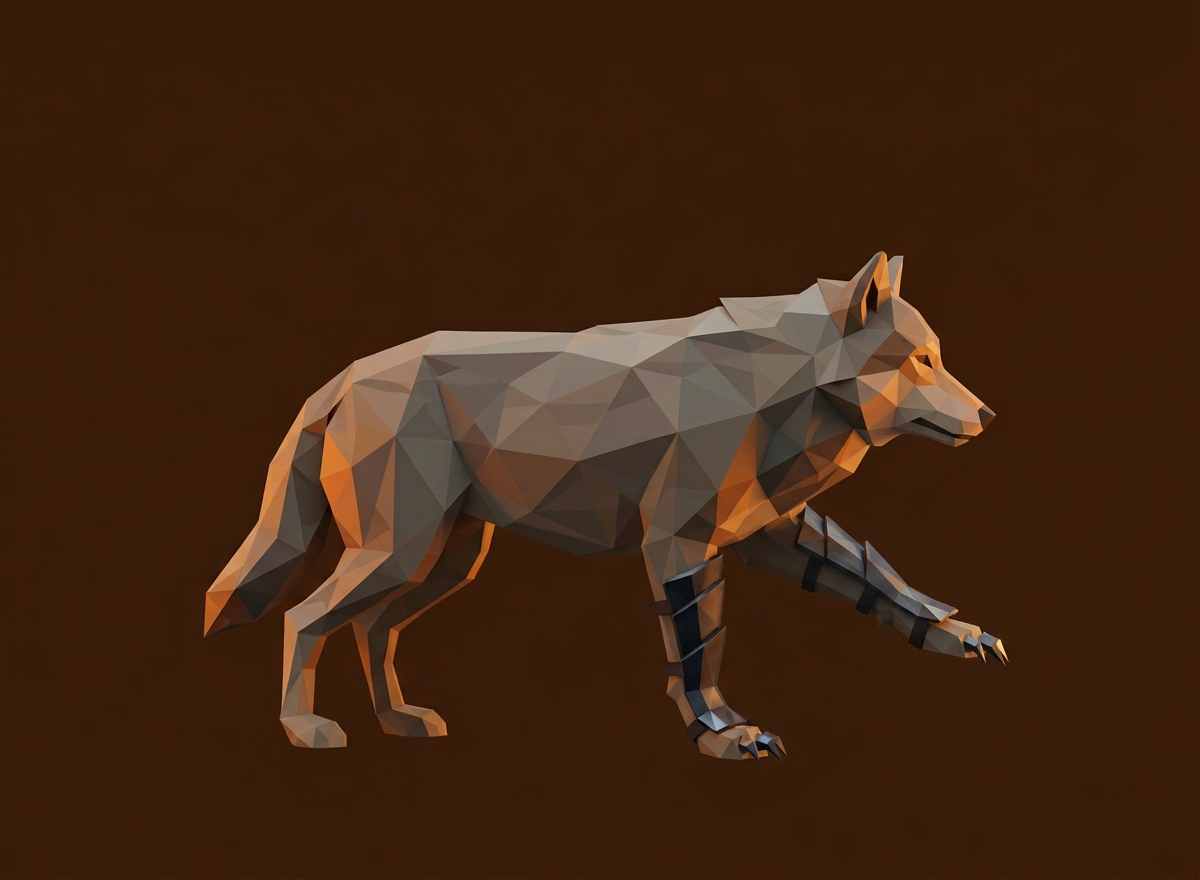
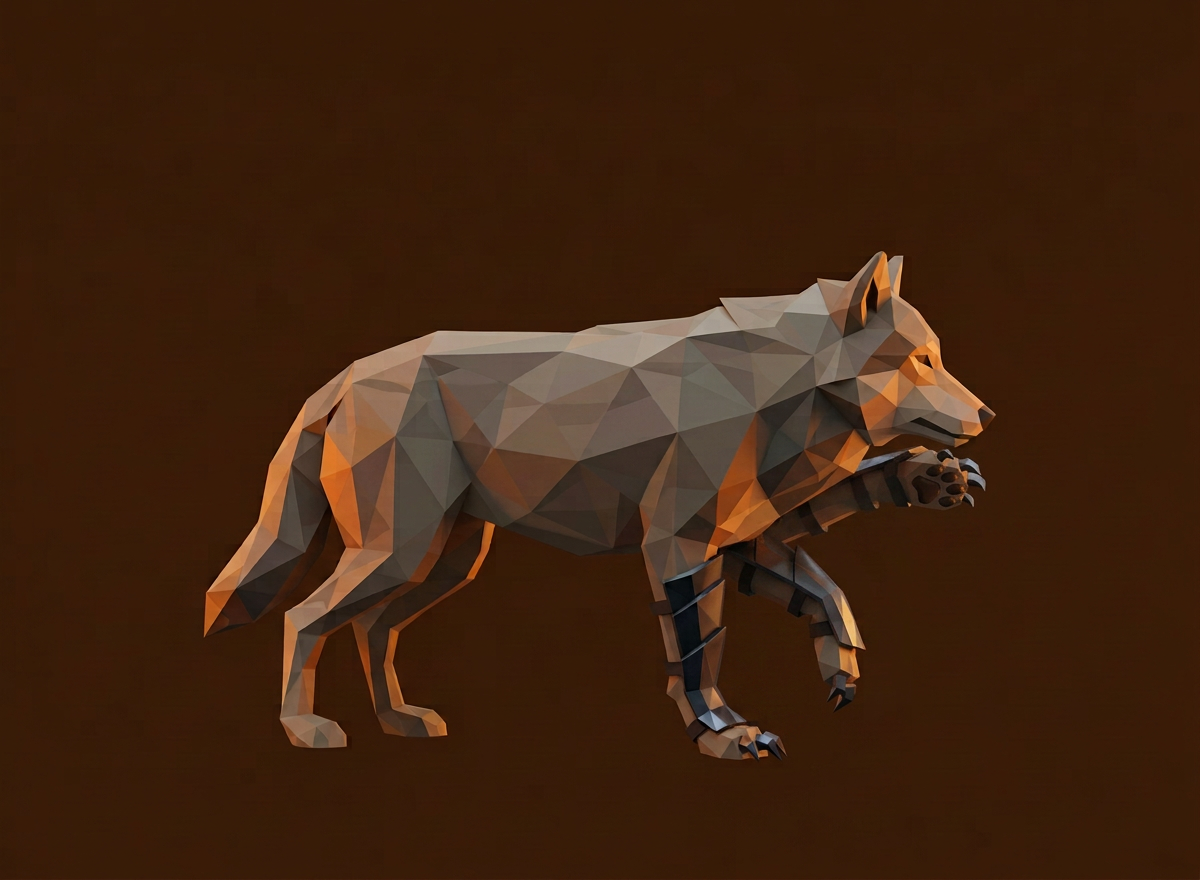
Gêmeos (fonte): Patas, caminhada completa 16/16 (mid_4..7 v10 sem linha de chão, sem tom roxo, sem sombra); ataque atk_2/4/5 refeitos com pata sem esticar; morte death_3/4 ainda pendentes; manifesto atualizado

Changed region(s): [[0.5858, 0.5523, 0.8325, 0.7977], [0.7092, 0.4909, 0.8325, 0.583], [0.6167, 0.8284, 0.6475, 0.8591]]

diff --git a/art-source/gemeos-lowpoly/README.md b/art-source/gemeos-lowpoly/README.md
@@ -22,10 +22,10 @@ Os quadros v7 foram gerados a partir da base v2 para uniformizar o desenho. Os q
 |---|---|---|---|
 | Base | — | `patas_base_laranja.png` | Aceita. Duas garras confirmadas em ampliação |
 | Repouso | `idle: 4` | `patas_idle_0..4` (5) | Escolhidos 4: `idle_0`, `idle_2`, `idle_3`, `idle_4`. `idle_1` fica de fora (brilho isolado na pata). Conferir no jogo |
-| Caminhada | `walk: 16` | `patas_walk_key_0..7` (8 de 8) + `patas_walk_mid_0..3` (4 de 8) | **Em andamento, 12 de 16.** Quadros-chave sem placa na cabeça. `key_0` refeito sem sombra. Intermediários `mid_4` e `mid_5` reprovados por linha de chão, `mid_6` por tom roxo, `mid_7` por sombra. Faltam `mid_4..7` |
+| Caminhada | `walk: 16` | `patas_walk_key_0..7` (8 de 8) + `patas_walk_mid_0..7` (8 de 8) | **Completa, 16 de 16, mas ainda não conferida em ampliação quadro a quadro.** `key_0` e `mid_0..3` são v9 e `mid_4..7` são v10, sem sombra, sem linha de chão e sem tom roxo na medição |
 | Dano | `hurt: 3` | `patas_hurt_0..2` | Aceito |
-| Ataque | `attack: 9` | `patas_atk_0..8` | Aceito; `atk_5` com pata longa, sem corte |
-| Morte | `death: 7` | `patas_death_0..6` | Aceito; `death_3` e `death_4` refeitos |
+| Ataque | `attack: 9` | `patas_atk_0..8` | Aceito. `atk_2`, `atk_4` e `atk_5` refeitos (v10) com a pata dianteira mais curta, sem esticar à frente. Conferir no jogo |
+| Morte | `death: 7` | `patas_death_0..6` | **Pendente.** `death_3` e `death_4` ainda com a pata dianteira esticada para frente; `death_4` mais claro que os outros. Versões novas reprovadas por sombra ou pose errada. `death_6` tem uma alternativa v9 (sem sombra, cor um pouco mais clara), ainda não aceita |
 
 ## Mandíbula v2/v7 (mandíbula de aço grande e visível, também com a boca fechada; pernas sem aço)
 A v1 tinha mandíbula pequena e não aparecia com a boca fechada. A v2 foi refeita a partir dela; os quadros da v1 foram removidos.
@@ -37,7 +37,7 @@ A v1 tinha mandíbula pequena e não aparecia com a boca fechada. A v2 foi refei
 | Caminhada | `walk: 16` | `mandibula_v2_walk_key_0..7` + `mandibula_v2_walk_mid_0..7` (16 de 16) | Quadros-chave: `key_0,4,5,6` são v7; `key_1,2,3,7` são v2. Intermediários `mid_N` entre `key_N` e `key_N+1` (o último fecha em `key_0`). Conferidos em folha, não em ampliação quadro a quadro |
 | Dano | `hurt: 3` | `mandibula_v2_hurt_0..2` (3 de 3) | Aceito |
 | Ataque | `attack: 9` | `mandibula_v2_atk_0..8` (9 de 9) | Aceito. `atk_3` v4, `atk_4` v7, `atk_5` v3, demais v2 |
-| Morte | `death: 7` | `mandibula_v2_death_0..6` (7 de 7) | Aceito. `death_0,1,2,3,6` são v7 (`death_3` sem sombra). `death_4` v2, `death_5` v5 |
+| Morte | `death: 7` | `patas_death_0..6` | **Pendente.** `death_3` e `death_4` ainda com a pata dianteira esticada para frente; `death_4` mais claro que os outros. Versões novas reprovadas por sombra ou pose errada. `death_6` tem uma alternativa v9 (sem sombra, cor um pouco mais clara), ainda não aceita |
 
 ## Descartados (não estão aqui)
 - Versões cinzas das Patas (`patas_base_cinza`, `patas_key_*`): o usuário pediu o corpo laranja.
